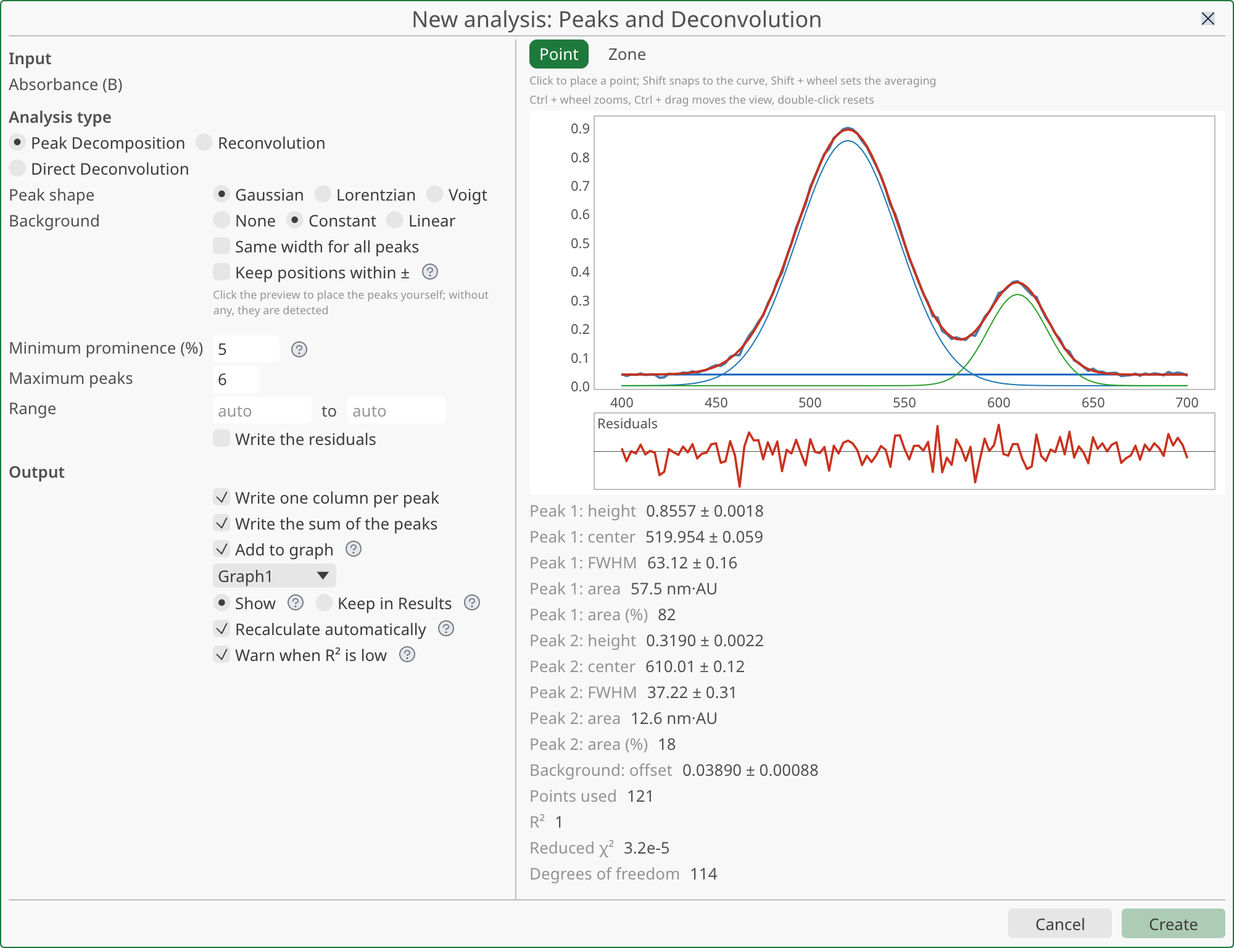
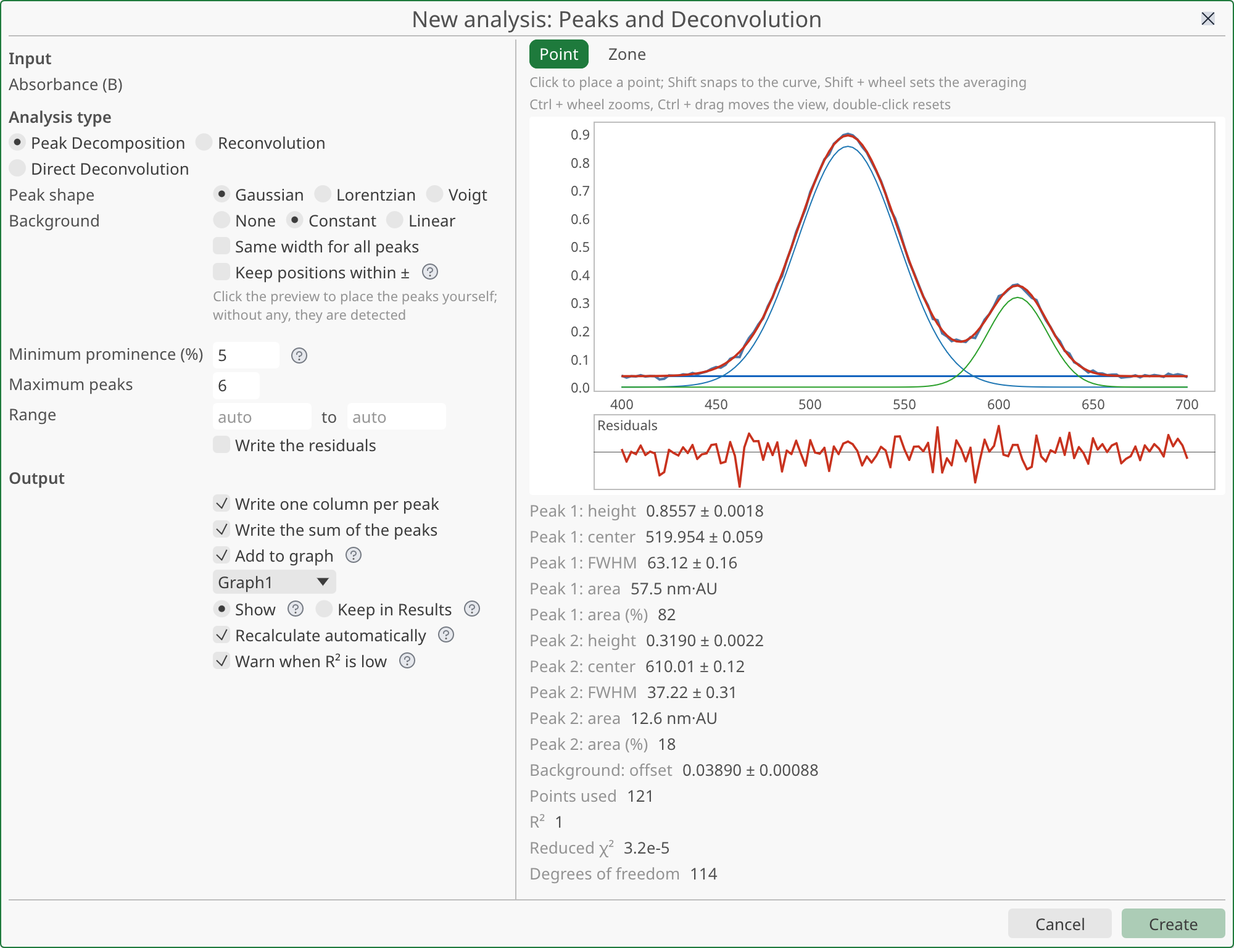
theme: secondary text one step under body size (11 pt), the small style was too small to read (#392)
Claude-Session: https://claude.ai/code/session_01PxxG2T2xenE6FbWgLSxohE

diff --git a/crates/stokesforge-app/src/theme.rs b/crates/stokesforge-app/src/theme.rs
@@ -152,10 +152,15 @@ pub fn table_header(text: impl Into<String>) -> egui::RichText {
     bold(text).small()
 }
 
-/// Level 3: the secondary text (detail, help), muted and in small text. The
-/// usage rules are those of muted text (`docs/interface-standard.md`).
+/// Size of the secondary text: one step under the body (12.5 pt). egui's
+/// `TextStyle::Small` (9 pt, 72 % of the body) was too small to read (#392 trial).
+pub const SECONDARY_TEXT_SIZE: f32 = 11.0;
+
+/// Level 3: the secondary text (detail, help), muted and slightly smaller than
+/// body ([`SECONDARY_TEXT_SIZE`]). The usage rules are those of muted text
+/// (`docs/interface-standard.md`).
 pub fn secondary_text(text: impl Into<String>) -> egui::RichText {
-    egui::RichText::new(text).small().weak()
+    egui::RichText::new(text).size(SECONDARY_TEXT_SIZE).weak()
 }
 
 /// Level 4: the dimmed text, muted but at body size and not bold: empty
@@ -773,7 +778,10 @@ mod tests {
         assert_ne!(secondary.sections[0].format.coords, bold_variations());
         assert_eq!(section.sections[0].format.font_id.size, body);
         assert!(header.sections[0].format.font_id.size < body);
-        assert!(secondary.sections[0].format.font_id.size < body);
+        let small = egui::Style::default().text_styles[&egui::TextStyle::Small].size;
+        let secondary_size = secondary.sections[0].format.font_id.size;
+        assert_eq!(secondary_size, SECONDARY_TEXT_SIZE);
+        assert!(small < secondary_size && secondary_size < body);
         // Only the secondary is muted: the other two keep the fallback
         // color (`PLACEHOLDER`), resolved at paint time.
         assert_eq!(section.sections[0].format.color, Color32::PLACEHOLDER);

diff --git a/.claude/conventions.md b/.claude/conventions.md
@@ -24,11 +24,11 @@ The empty graph goes through `AddGraph`; `SessionHandle::new_project`, like
 - `stokesforge-app`: `app.rs` split (work package #115, #116–#124 done) — rule adopted: **real modules** in `src/app/`, one per surface (module → role table in `docs/application/shell-and-code.md`, § Code split), with explicit imports, minimal visibility (`pub(super)` between `app` modules); no `use …::*` outside test code (`no_global_import_outside_tests`, `tests/guards.rs`, no exemption); **`app.rs` keeps only the orchestration** of the frame (`StokesForgeApp` and `new`, `ui()` and the panel order, `collect_shortcuts`, deferred application of actions, blocking confirmations, draining of detached windows) — a menu entry goes in `app/menus.rs`, window code in `app/window_*.rs`, a new surface in its own module (model: `object_manager.rs`, `toolbar.rs`, `app/dialogs.rs`). Common building blocks: `app/dialogs.rs` (`modal_dialog`, `modal_dialog_with`, `modal_wizard`, `modal_live_settings`, `modal_read_only`, `modal_confirm`, `modal_save_changes`, `modal_alert`), `app/tab_strip.rs` (`tab_strip`), `app/shortcuts.rs` (`SHORTCUT_*`), `app/tab.rs` (`Tab`), `app/window_chrome.rs` (frame, `show_window_in_layer`). **Tests follow their code** (`tests` module of the surface; the one of `app.rs` exercises only the orchestration) and are reread at every restructuring: scope set by the `perimetre` agent (Opus), tests written by Sonnet, witnesses verified by mutation (`CLAUDE.md`, "Delegation and model choice"). Giant functions are split in place (#124), never with a move: keep the nesting of egui Ui/IDs and the order of events; private painting contexts group only the data or borrows useful to the frame. All the guards that read the code go through a single reader, `stokesforge-app/tests/support/sources.rs` (all `src/` **of both crates**, recursive, the sources of `stokesforge-app-state` under the `app-state/` prefix; functions looked up by name; never `include_str!` nor a named file, #116, #263).
 - `stokesforge-app`: every color setting goes through `color_picker::color_field` with the color's usage (`ColorUsage::Curves`/`Text`/`Background`) and the `PickerEnv` of the saved colors, never through a `#RRGGBB` text field. In a toolbar, the swatch is a small square preceded by an icon (`color_icon_button`, #89); in a form, `color_field` (label + square). Empty color = automatic, drawn as a square crossed by a red line; opacity as `#RRGGBBAA`; automatic text and scales follow `stokesforge_render::color::auto_ink` (white on a dark background).
 - `stokesforge-app`: every window goes through the common building block — `show_window_in_layer` (`app/window_chrome.rs`) for a content window, `modal_dialog_with` (`app/dialogs.rs`) for a dialog, `modal_wizard` for a wizard, `modal_live_settings` (Close only, focus on the first field, size by class) for settings applied live (Preferences), `modal_read_only` (Close only) for a window that changes nothing, `modal_confirm` / `modal_save_changes` / `modal_alert` for a confirmation, the "Discard Changes · Cancel · Save" trio and a serious failure (#229; only for what Ctrl+Z cannot undo, drawn from `app/confirmations.rs`) (same `modal_frame` frame, same title bar, same blocking as the graph properties; ordered footer, message area — error from `fail` while a dialog is open, otherwise the reason the main button is disabled, carried by `DialogFooter::gated` (#226) —, initial focus and remembered geometry handled by the building block, #228); each modal window has a **nature** (`DialogNature`, S-F11, #300) that sets the footer, the size class (Small 480 x 170, Medium 480 x 420, Large 640 x 500), the initial focus and the default button: an interactive window takes a class, or a free size justified by `// FREE-SIZE(#300): <justification>` right before it (`no_free_size_without_justification`); a window without rich interaction (choice, read-only, confirmation, alert) may take the size of its content without justification; a new window goes into `docs/windows.md` with its `stokesforge_…` identifier (`the_window_catalog_and_the_code_agree`); never a raw `egui::Window`, even for a step-by-step wizard (locked by the test `no_window_is_a_raw_egui_window`). Existing code that deviates is not a model.
-- `stokesforge-app`: dimmed text is reserved for the **secondary**, through two functions of `theme.rs`, never a `.weak()` written in place (`no_weak_outside_the_theme`, #392): `theme::secondary_text` (small: help, reason, technical detail under a sentence) and `theme::dimmed_text` (normal size: empty state, "Calculating…", label beside a result); the content that a dialog or a read-only window wants read is in normal text (`docs/interface-standard.md`, § Windows and dialogs, "Dimmed text"). Copying the `.weak()` of a neighboring dialog is not a justification: the error detail of a save alert is dimmed because it is secondary, not because it is an alert.
+- `stokesforge-app`: dimmed text is reserved for the **secondary**, through two functions of `theme.rs`, never a `.weak()` written in place (`no_weak_outside_the_theme`, #392): `theme::secondary_text` (slightly smaller than body, 11 pt: help, reason, technical detail under a sentence) and `theme::dimmed_text` (normal size: empty state, "Calculating…", label beside a result); the content that a dialog or a read-only window wants read is in normal text (`docs/interface-standard.md`, § Windows and dialogs, "Dimmed text"). Copying the `.weak()` of a neighboring dialog is not a justification: the error detail of a save alert is dimmed because it is secondary, not because it is an alert.
 - `stokesforge-app`: every icon goes through `icons::icon_image` / `icon_button` (Phosphor duotone, color role `IconRole`, `tr!` tooltip mandatory), never through a Unicode glyph or an emoji; color is rare, rules in `docs/icons.md` (locked by `no_icon_outside_the_component`). **Every action has its logo** (#110): a polished icon if it is in a fixed bar, the standard two-letter family logo otherwise (its template is still to come); this does not force display in the menus.
 - `stokesforge-app`: every interface text goes through `tr!` with a key of the `en` catalog, written according to `docs/ui-texts.md`; never a literal (locked by `no_hardcoded_label`, including the `set_title` titles and the visible `add_filter` names of file dialogs, #127; technical extensions and format acronyms preserved). Every key is written **in both** catalogs (`en` and `fr`) in the same commit (completeness is blocking). No exemption: the guard is absolute (#48), and a catalog key that no call uses fails `no_catalog_key_is_dead` (`tests/labels.rs`: the catalog is in `stokesforge-app-state`, but the menus are written in `stokesforge-app`, hence the reading of both).
 - `stokesforge-app`: a toolbar is a variant of `toolbar::ToolbarId` whose content is written in `toolbar::bar_contents` with `ToolbarButton`s (icon of the common component, `tr!` tooltip) that push the `Action`s of the menus; never a second execution path nor a panel placed beside it. The bars are **fixed** (#108): content and place frozen in the code (`ToolbarId::row`), no move and no floating mode; only their visibility (View menu) lives in `preferences.json`, not in the `.stf`. `Tools` and `Text` are always drawn, buttons disabled with a tooltip when no window is concerned. The text format (`ToolbarId::Text`) writes Typst tags into the text through `text_format::apply` for bold, italic, color and the size of a passage; the **font** (and, for a title or the legend, the size) is a field of the zone (`TextFont`, `AnnotationSpec::font`, #77/#78), set by `StokesForgeApp::format_zone` — never a `#text(font: …)` tag in the content.
-- `stokesforge-app`: common appearance (#169) — a set of tabs (pages, sheets, axes) goes through `tab_strip` + `TabStripSide`, never through a row of buttons (one level: `Top`; two levels: primary `Top`, secondary `Left`, fixed, only the content scrolls, S-L9, #393); a selectable list or tree entry goes through `list_row` / `ListRowBackground` (`app/list_row.rs`, full-width row with an accent rule); egui's selectable button stays for the exclusive choices of a menu, a drop-down list or the color picker (`no_selectable_button_outside_a_menu`). Bold through `theme::bold` only (`strong()` forbidden); **four text levels** named in `theme.rs` (#170): section title `theme::section_heading` (bold, normal size; `theme::section_title` places it with its space, without a `separator()` right before, `no_separator_before_a_section_title`), table header `theme::table_header` (bold, small size), secondary text `theme::secondary_text` (dimmed, small size), dimmed text `theme::dimmed_text` (dimmed, normal size) — never `bold(…).small()` nor `.weak()` written in place (`no_small_bold_outside_the_theme`, `no_weak_outside_the_theme`); **a single row height** `list_row::LIST_ROW_HEIGHT` (24 pt, #170) for `list_row` and for any composed row, set in its `ui.horizontal` by `with_list_row_height` (or `raise_to_list_row_height` / `restore_row_height` around a `show_header`), without a new sub-`Ui`; a decorative step separator is a dimmed icon (`icon_image` + `help_icon_tint`), not a glyph; state and chrome colors through `theme.rs` or the `Visuals`, no `Color32::from_…` outside `theme.rs` and `color_picker.rs` (`no_hardcoded_color_outside_the_theme`); a form is a two-column grid through `app/form.rs` (`form`, `Form::row`/`checkbox`/`note`/`section`, #227); never a collapsible section (S-L5) except the "Advanced" block of `Form::collapsible` (S-L8, #344: closed by default, at the bottom of its section, settings all Auto by default, its rows in the same grid; a common setting or one without Auto does not go there), a fixed exclusive choice through `choice` (radios for 2–3 options, list from 4), a menu choice through `menu_sections::menu_choice` (check mark only), the toggle choice in boxed texts `toggle_texts` reserved for the row of gestures of the analysis preview (exception S-K7, marker `TOOL-IN-WINDOW(#299)`), widths `theme::FieldWidth`, gaps `theme::SPACE_ITEM`/`SPACE_SECTION` and never `add_space(<number>)` (`no_literal_add_space_outside_the_theme`).
+- `stokesforge-app`: common appearance (#169) — a set of tabs (pages, sheets, axes) goes through `tab_strip` + `TabStripSide`, never through a row of buttons (one level: `Top`; two levels: primary `Top`, secondary `Left`, fixed, only the content scrolls, S-L9, #393); a selectable list or tree entry goes through `list_row` / `ListRowBackground` (`app/list_row.rs`, full-width row with an accent rule); egui's selectable button stays for the exclusive choices of a menu, a drop-down list or the color picker (`no_selectable_button_outside_a_menu`). Bold through `theme::bold` only (`strong()` forbidden); **four text levels** named in `theme.rs` (#170): section title `theme::section_heading` (bold, normal size; `theme::section_title` places it with its space, without a `separator()` right before, `no_separator_before_a_section_title`), table header `theme::table_header` (bold, small size), secondary text `theme::secondary_text` (dimmed, slightly smaller than body, 11 pt), dimmed text `theme::dimmed_text` (dimmed, normal size) — never `bold(…).small()` nor `.weak()` written in place (`no_small_bold_outside_the_theme`, `no_weak_outside_the_theme`); **a single row height** `list_row::LIST_ROW_HEIGHT` (24 pt, #170) for `list_row` and for any composed row, set in its `ui.horizontal` by `with_list_row_height` (or `raise_to_list_row_height` / `restore_row_height` around a `show_header`), without a new sub-`Ui`; a decorative step separator is a dimmed icon (`icon_image` + `help_icon_tint`), not a glyph; state and chrome colors through `theme.rs` or the `Visuals`, no `Color32::from_…` outside `theme.rs` and `color_picker.rs` (`no_hardcoded_color_outside_the_theme`); a form is a two-column grid through `app/form.rs` (`form`, `Form::row`/`checkbox`/`note`/`section`, #227); never a collapsible section (S-L5) except the "Advanced" block of `Form::collapsible` (S-L8, #344: closed by default, at the bottom of its section, settings all Auto by default, its rows in the same grid; a common setting or one without Auto does not go there), a fixed exclusive choice through `choice` (radios for 2–3 options, list from 4), a menu choice through `menu_sections::menu_choice` (check mark only), the toggle choice in boxed texts `toggle_texts` reserved for the row of gestures of the analysis preview (exception S-K7, marker `TOOL-IN-WINDOW(#299)`), widths `theme::FieldWidth`, gaps `theme::SPACE_ITEM`/`SPACE_SECTION` and never `add_space(<number>)` (`no_literal_add_space_outside_the_theme`).
 - `stokesforge-app`: every workspace key consumer (grid, Project Manager, any shortcut that acts on the main window's content and is painted before the dialogs) checks `!dialogs::modal_shown(ctx)` (#406); `focus_free` alone is not enough, egui drops the focus on Esc before the pass. Test it with a bench that paints the workspace then a modal in the same frame.
 - `stokesforge-app`: a field that opens in place goes through `app/inplace_edit.rs` (#224, contract S-T4: everything selected, Enter/click elsewhere commit, Escape cancels, Tab commits and moves to the next); a number input is read by `stokesforge_core::number_format::parse_input` (decimal comma, #223), never `parse::<f64>`; the tick separator is `PlotSpec::decimal_comma`.
 - `stokesforge-app`: cell input and paste (#258): **a single rule** "text → cell value", `stokesforge_core::ValueBlock::from_texts(kind, &[&str]) -> (bloc, promoting)` — input (`commit_cell`) and paste (`value_block_from_tsv_column`) call it, never a second implementation in the app nor a detour through `MixedCell::from_text` (which keeps `inf`/`nan` as read, rule C2 of the type conversion). `inf`, `nan` and `1e400` typed or pasted stay text; dates are read only in a `DateTime` column. A paste that overwrites a `Mixed` column calls the repromotion (`auto_promote_mixed_column_if_all_numeric`) before closing its group, and stays one history entry.

diff --git a/docs/tests.md b/docs/tests.md
@@ -66,7 +66,7 @@ ones to understand before changing them.
 | `stokesforge-app/tests/guards.rs` | no bare `egui::Window` (`no_window_is_a_raw_egui_window`); the properties window goes through `modal_dialog` → `modal_dialog_with` → `modal_frame` → `show_window_in_layer` (like `modal_wizard`, the import wizard, `modal_live_settings` and `modal_read_only`, #228, then `modal_confirm`, `modal_save_changes` and `modal_alert`, #229); no global import (`use …::*`) outside test code (`no_global_import_outside_tests`, decision 2 of #115, absolute since #117); no `ui.separator()` in a menu outside the section building block (`no_raw_separator_in_a_menu`, #155, absolute); egui selectable button only in a menu, a drop-down list or the color picker (`no_selectable_button_outside_a_menu`, #169); no color `Color32::from_…` or named tint outside `theme.rs` and `color_picker.rs` (`no_hardcoded_color_outside_the_theme`, #169); no `ui.separator()` just before a section title or a text level (`section_heading`, `table_header`) (`no_separator_before_a_section_title`, #169, #170); no `bold(…).small()` outside `theme.rs` (`no_small_bold_outside_the_theme`, witness `the_small_bold_guard_sees_a_bold_small`, #170); neither `DragValue` nor `Slider` (`no_numeric_field_outside_the_building_block`, #220, absolute); no bare bubble (`on_hover_text`/`on_hover_ui`) on a box, a radio, a text or number field, a field label outside a menu (`no_bare_tooltip_on_a_form_field`, #225, absolute — the reminder goes through `help_beside`/`help_text`); every `add_enabled` carries `.on_disabled_hover_text` (`no_disabled_element_without_its_reason`, #226, absolute); no `add_space(<nombre>)` outside `theme.rs` (`no_literal_add_space_outside_the_theme`, #227, absolute — `theme::SPACE_ITEM` / `SPACE_SECTION`); no `.weak()` outside `theme.rs` (`no_weak_outside_the_theme`, #392, absolute — `theme::secondary_text` / `dimmed_text`; witness `the_weak_guard_sees_a_weak_written_in_place`, proven mutant: `.weak()` back in the worksheet header text fails it); a `rfd::` only in `file_picker.rs` of `stokesforge-app-state` (`no_rfd_picker_outside_the_module`, #192, witness `the_picker_guard_sees_an_rfd_outside_the_module`); no integration test (of the two `tests/` folders) calls `AppState::new` (`no_integration_test_uses_appstate_new`); the old guard "state modules do not name egui" (`MODULES_SANS_EGUI`, #255) is removed: since #263 the compiler and `stokesforge-app-state/tests/no_ui_dependency.rs` hold the boundary; no free size of an interactive window without `// FREE-SIZE(#300): <justification>` in the 12 preceding lines (`no_free_size_without_justification`, #300, S-F11, witness `the_sizes_guard_sees_a_bare_free_size`, proven mutation: marker removed); every `stokesforge_…` identifier passed to a `modal_*` appears in `docs/windows.md` and every line of the catalog has its call, without reading the sizes (`the_window_catalog_and_the_code_agree`, #300, witness `the_catalog_guard_sees_a_deviation`, proven mutation: catalog line removed); the witnesses of the source reader |
 | `stokesforge-app/tests/manual_labels.rs` (#363) | every menu or submenu entry built by the functions of `MENU_FUNCTIONS` (menu bar, Sheet and Columns menus, sheet-tab and column context menus; 102 entries) has its English label (catalog `en`) written in bold, alone or as an item of a menu path, in a page of `manual/src/`, the generated pages `reference/interface-texts.md` and `reference/shortcuts.md` excluded. `NOT_IN_MANUAL` (key, reason) holds the exceptions; a stale key or a renamed function fails. Not covered: the context menus of the Project Manager and of the graph components (action tables). Proven mutations: a label un-bolded in the manual fails naming key and label; a stale exception fails |
 | `stokesforge-app/src/app/dialogs.rs` (module `tests`) | window natures (#300, S-F11): `each_nature_fixes_its_footer_size_and_focus` (table nature → footer, default class Small 480 x 170 / Medium 480 x 420 / Large 640 x 500, focus; the field of the variant wins), `the_initial_focus_follows_the_nature` (confirmation → Cancel, save and alert → primary, never the content field; read-only → nothing; witness: the draft goes to the field), `a_greyed_out_footer_shows_its_reason_and_not_its_tooltip` (`DialogFooter::gated` / `always`); S-F8 witness kept (`a_reopened_dialog_takes_back_its_size_and_position`); proven mutants (Small and Medium swapped, confirmation moved to the first field) |
-| `stokesforge-app/src/theme.rs` (module `tests`) | no `ScrollStyle` outside the theme (`no_scroll_style_outside_the_theme`); `a_page_scroll_area_adds_an_end_margin` (#347: content = block + `SPACE_SECTION`, mutant: margin 0 fails); the guard `no_raw_scroll_area_without_justification` and its witness `the_scroll_area_guard_sees_a_bare_area` live in `tests/guards.rs` (mutant: `plot_settings.rs` back to a raw area fails); no egui `strong()`, all bold through `theme::bold` (`no_egui_strong_outside_the_theme`, #169); `bold` really widens the text with the embedded fonts; four text levels (#170, #392): `each_text_level_sets_weight_and_size` (section title bold at normal size, table header bold at small size, secondary dimmed at small size, dimmed text muted at normal size and not bold) and `section_title_paints_the_section_heading_level`; proven mutants (`.small()` removed from the header or the secondary, bold removed from the title, `.small()` added to or `.weak()` removed from `dimmed_text`) |
+| `stokesforge-app/src/theme.rs` (module `tests`) | no `ScrollStyle` outside the theme (`no_scroll_style_outside_the_theme`); `a_page_scroll_area_adds_an_end_margin` (#347: content = block + `SPACE_SECTION`, mutant: margin 0 fails); the guard `no_raw_scroll_area_without_justification` and its witness `the_scroll_area_guard_sees_a_bare_area` live in `tests/guards.rs` (mutant: `plot_settings.rs` back to a raw area fails); no egui `strong()`, all bold through `theme::bold` (`no_egui_strong_outside_the_theme`, #169); `bold` really widens the text with the embedded fonts; four text levels (#170, #392): `each_text_level_sets_weight_and_size` (section title bold at normal size, table header bold at small size, secondary dimmed at 11 pt, slightly smaller than body, dimmed text muted at normal size and not bold) and `section_title_paints_the_section_heading_level`; proven mutants (`.small()` removed from the header, secondary back to `.small()`, bold removed from the title, `.small()` added to or `.weak()` removed from `dimmed_text`) |
 | `stokesforge-app/src/app/{list_row,object_manager_ui,project_manager,curve_settings,import_wizard}.rs` (tests) | single row height and step trail (#170, points 5 and 8): `every_list_row_has_the_single_height` (with or without an icon, selected or not = `LIST_ROW_HEIGHT`, a bare label is lower), `the_composed_row_takes_the_single_height_and_hands_it_back`, `the_reserved_background_imposes_the_minimum_height`, `group_series_and_object_have_the_same_row_height` (text centered in the row), `a_folder_has_the_height_of_a_window` (constant step folder/window), `the_series_row_has_the_single_height_with_its_checkbox`, `the_step_trail_has_no_text_chevron_any_more`; proven mutants (height not imposed on the row, on the folder header, on `list_row_sensed`, text chevron restored) |
 | `stokesforge-app/src/{theme,app/file_drop,app/graph_window,app/window_detach,app/window_stack}.rs` (tests) | single drop stroke on the target window's border (#170 point 2, #386, S-X5): `the_drop_target_stroke_is_a_light_blue`, `a_file_over_the_workspace_outlines_the_application_alone`, `a_file_over_a_workbook_lights_up_its_window_border_alone`, `the_drop_border_replaces_the_active_outline`, `the_drop_target_does_not_outlive_its_frame`, `a_hover_outlines_the_book_under_the_real_cursor`, `a_file_over_a_maximized_workbook_lights_up_its_area`, `a_file_over_a_detached_workbook_lights_up_the_viewport_border`, `dropping_columns_on_the_graph_adds_a_series_and_elsewhere_nothing` (stroke on the window rect); proven mutants: accent green back, main outline without the claim condition, no claim marker, marker not reset, both outlines painted, marker ignored by the detached tab / maximized area / graph |
 | `stokesforge-app/src/color_picker.rs` (tests) | "Square \| Wheel" as tabs (#170, point 7): `square_and_wheel_are_underlined_tabs` (accent stroke under the active tab and not under the other, no `selection.bg_fill` background behind a label, click on Wheel changes the view and keeps `stokesforge_picker_shape`); the fallback test (`the_picker_is_folded_by_default_and_unfolds_on_demand`) still reads "Square" as collapsed text; proven mutant: `selectable_value` restored |

diff --git a/docs/interface-standard.md b/docs/interface-standard.md
@@ -99,7 +99,7 @@ mechanics.
 | S-L3 | `titre-de-section-entre-blocs` | A section heading between two blocks, never a rule line alone. |
 | S-L4 | `deux-espacements` | Two spacing constants in `theme.rs`; no numeric `add_space` elsewhere. |
 | S-L5 | `pas-de-section-repliable` | No collapsible section in a form; too long, switch to tabs. Only exception: the "Advanced" block (S-L8). |
-| S-L6 | `quatre-niveaux-de-texte` | Four text levels named in `theme.rs`: section heading, table header, secondary text, dimmed text; never `bold(…).small()` nor `.weak()` written in place. |
+| S-L6 | `quatre-niveaux-de-texte` | Four text levels named in `theme.rs`: section heading, table header, secondary text (slightly smaller than body, 11 pt), dimmed text; never `bold(…).small()` nor `.weak()` written in place. |
 | S-L7 | `hauteur-de-ligne-unique` | A list or tree row has a single height, `LIST_ROW_HEIGHT`, composed or not. |
 | S-L8 | `bloc-avance-replie` | Settings that are almost never touched, all Auto by default, go in a collapsible "Advanced" block, closed by default, at the bottom of their section; never a common setting nor one without Auto. |
 | S-L9 | `onglets-secondaires-a-gauche` | One level of tabs: the strip is on top. Two levels: the primary tabs are horizontal on top, the secondary tabs vertical at the left of the content; the secondary strip stays fixed, only the content scrolls. |
@@ -525,7 +525,7 @@ How it is held (`app/dialogs.rs`, all through the same `modal_frame` body):
   button of its content.
 - **Dimmed text**: reserved for what is secondary, in two named functions of
   `theme.rs` (`.weak()` is written nowhere else, `no_weak_outside_the_theme`,
-  #392). `theme::secondary_text` (small size, muted): help under a field,
+  #392). `theme::secondary_text` (slightly smaller than body, 11 pt, muted): help under a field,
   reason of a disabled button, technical detail under a sentence (the system
   error of a failed save). `theme::dimmed_text` (normal size, muted, not
   bold): empty state, "Calculating…", the label beside a result, a menu
@@ -698,7 +698,7 @@ History: #226.
   Properties › Axes (Bottom, Left, Right, Top at the left, under the main tabs).
 - **Four text levels** (S-L6, #170, #392): `theme::section_heading` (section
   heading, bold), `theme::table_header` (column header of a table, bold
-  in small size), `theme::secondary_text` (dimmed, small size),
+  in small size), `theme::secondary_text` (dimmed, slightly smaller than body, 11 pt),
   `theme::dimmed_text` (dimmed, normal size). Guards
   `no_small_bold_outside_the_theme` and `no_weak_outside_the_theme`.
 - **A single row height** (S-L7, #170): `list_row::LIST_ROW_HEIGHT`
@@ -711,7 +711,7 @@ How it is held:
 - **`app/form.rs`**: `form(ui, sel, |rows| …)` opens the grid; `Form::row`
   (label + field, the "?" icon after the field), `Form::field` (field column
   without a label), `Form::checkbox`, `Form::color`, `Form::note` (help,
-  `secondary_text`: small size), `Form::note_dimmed` (`dimmed_text`: normal
+  `secondary_text`: slightly smaller than body, 11 pt), `Form::note_dimmed` (`dimmed_text`: normal
   size, for an empty state or a warning), `Form::section` (heading across the full width), `Form::enabled`
   (disabled rows, S-G4), `Form::ui` (table or list across the full width).
   The label column takes the width of the longest, measured on the previous
